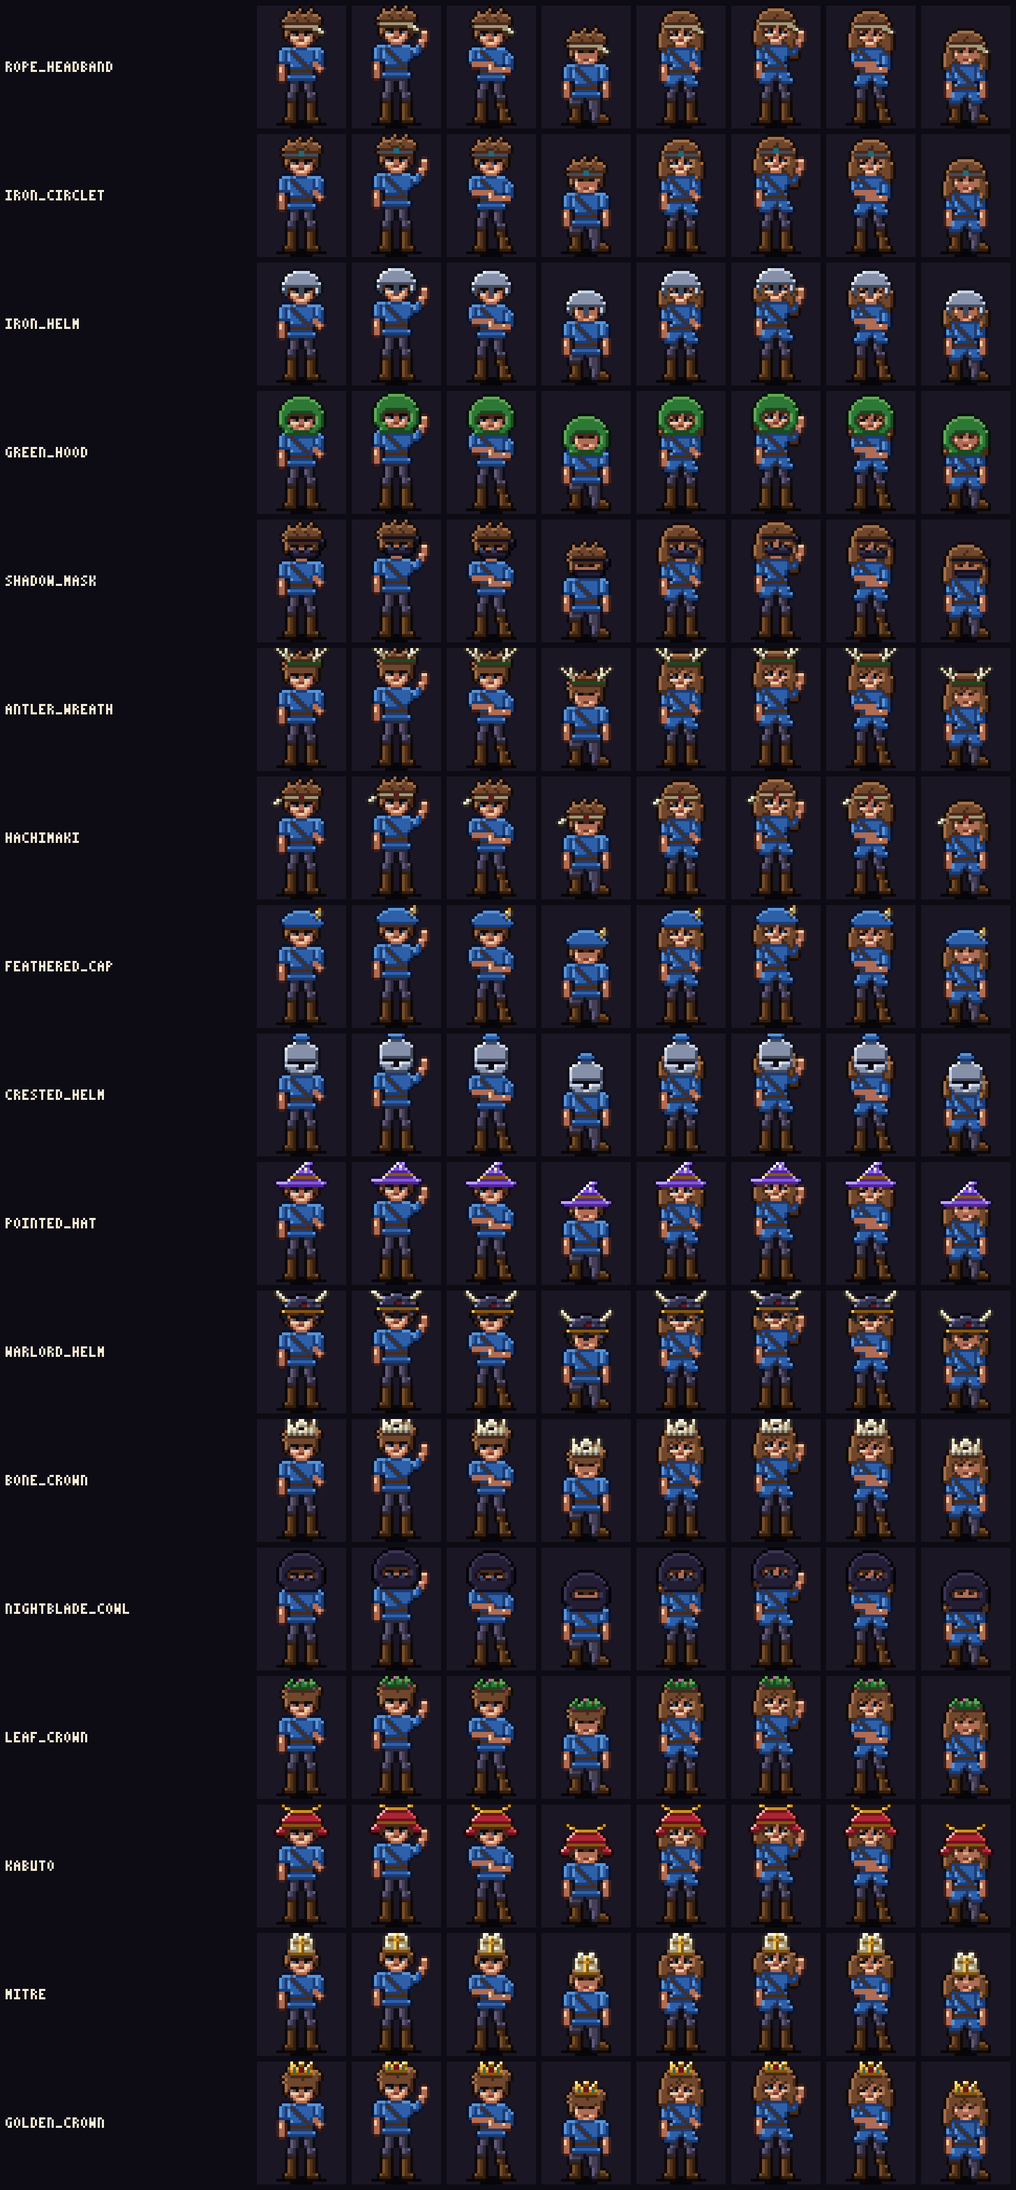
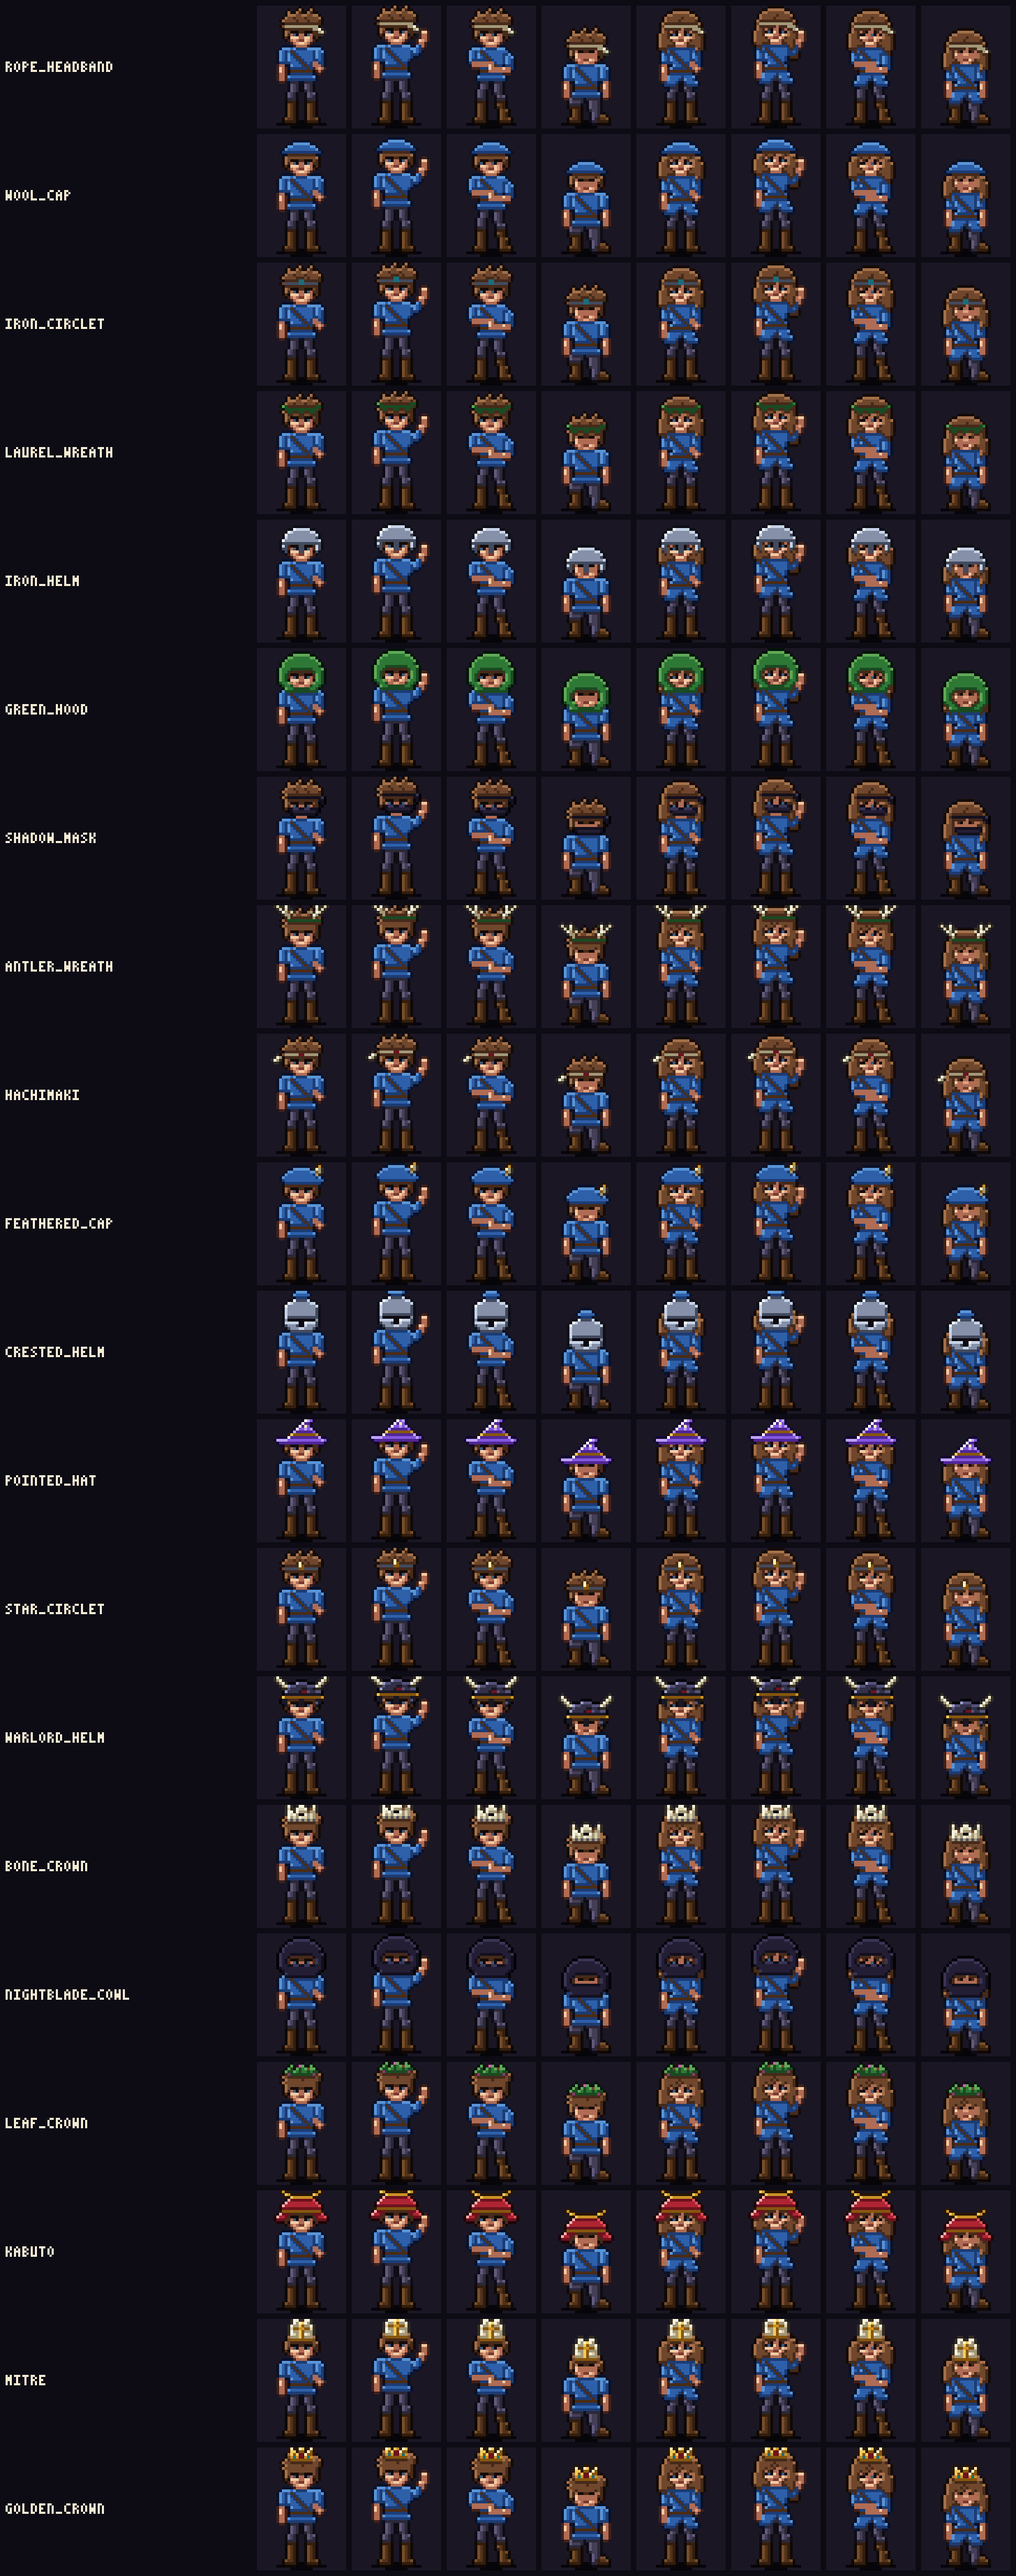
feat: fourteen more companion items between the first weeks and 50 sessions (FB-14)
Milestone items on the existing rule kinds, no rank items: sessions 5 / 10 / 15 / 25 / 30 / 200,
best streak 3 / 14 / 60, Trials 3 / 5 / 10, level 15 / 30. The thin hands slot grows from 4 to 7.
Drawn as letter grids for both bodies and every pose, checked on the contact sheet. ADR-079.

diff --git a/src/data/companion/accessories.ts b/src/data/companion/accessories.ts
@@ -5,7 +5,8 @@
  * earned; the store keeps the unlocks forever anyway. Cosmetic only.
  *
  * The list is the one shown to the user (2026-10-03): rank gear, level gear, milestones, and one
- * item for tier I and one for tier III of every class. Within a slot the order runs from humble
+ * item for tier I and one for tier III of every class; 14 milestone items were added on the
+ * user's OK (2026-10-30, FB-14, ADR-079) to fill the gaps between the early items and 50 sessions. Within a slot the order runs from humble
  * to grand: a slot the hero never picked for shows the last earned item in this order.
  *
  * Ids are snake_case and stable forever. The pixel art for each id is in `art.ts`.
@@ -29,11 +30,25 @@ export const ACCESSORIES: readonly Accessory[] = [
     flavor: 'Keeps the sweat out of a novice’s eyes.',
   },
   {
+    id: 'wool_cap',
+    name: 'Wool cap',
+    slot: 'head',
+    rule: { kind: 'sessions', count: 5 },
+    flavor: 'Five sessions in: a cap for the walk to the bar.',
+  },
+  {
     id: 'iron_circlet',
     name: 'Iron circlet',
     slot: 'head',
     rule: { kind: 'rank', rank: 'Adept' },
     flavor: 'A plain band with one rune-stone: the mark of an adept.',
+  },
+  {
+    id: 'laurel_wreath',
+    name: 'Laurel wreath',
+    slot: 'head',
+    rule: { kind: 'trials', count: 5 },
+    flavor: 'Five Trials passed: the old sign of a champion.',
   },
   {
     id: 'iron_helm',
@@ -92,6 +107,13 @@ export const ACCESSORIES: readonly Accessory[] = [
     flavor: 'Every Sorcerer needs one. The stars are optional.',
   },
   {
+    id: 'star_circlet',
+    name: 'Star circlet',
+    slot: 'head',
+    rule: { kind: 'level', level: 30 },
+    flavor: 'An iron band with one golden star for level 30.',
+  },
+  {
     id: 'warlord_helm',
     name: 'Horned warlord helm',
     slot: 'head',
@@ -143,6 +165,13 @@ export const ACCESSORIES: readonly Accessory[] = [
 
   // Cloak and back
   {
+    id: 'travel_scarf',
+    name: 'Travel scarf',
+    slot: 'cloak',
+    rule: { kind: 'sessions', count: 10 },
+    flavor: 'Ten sessions: a red scarf against the morning wind.',
+  },
+  {
     id: 'hooded_cloak',
     name: 'Hooded cloak',
     slot: 'cloak',
@@ -155,6 +184,13 @@ export const ACCESSORIES: readonly Accessory[] = [
     slot: 'cloak',
     rule: classItem('barbarian', 1),
     flavor: 'A Barbarian’s pelt, warm and a little smelly.',
+  },
+  {
+    id: 'storm_cloak',
+    name: 'Storm cloak',
+    slot: 'cloak',
+    rule: { kind: 'streak', count: 14 },
+    flavor: 'Two weeks without a miss: the night-blue cloak of a storm chaser.',
   },
   {
     id: 'veterans_scarf',
@@ -192,6 +228,13 @@ export const ACCESSORIES: readonly Accessory[] = [
     flavor: 'Long, heavy and trimmed with ermine: a High Lord’s cape.',
   },
   {
+    id: 'champions_cape',
+    name: 'Champion’s cape',
+    slot: 'cloak',
+    rule: { kind: 'sessions', count: 200 },
+    flavor: 'Two hundred sessions: orchid silk with a golden hem.',
+  },
+  {
     id: 'phoenix_cloak',
     name: 'Phoenix cloak',
     slot: 'cloak',
@@ -206,6 +249,13 @@ export const ACCESSORIES: readonly Accessory[] = [
     slot: 'body',
     rule: { kind: 'level', level: 5 },
     flavor: 'Sturdy cloth and a belt with a brass buckle.',
+  },
+  {
+    id: 'iron_pendant',
+    name: 'Iron pendant',
+    slot: 'body',
+    rule: { kind: 'trials', count: 3 },
+    flavor: 'A plain iron disc on a cord, one notch per Trial.',
   },
   {
     id: 'prayer_beads',
@@ -229,11 +279,25 @@ export const ACCESSORIES: readonly Accessory[] = [
     flavor: 'The red cross of the Templars over a white tabard.',
   },
   {
+    id: 'studded_belt',
+    name: 'Studded belt',
+    slot: 'body',
+    rule: { kind: 'level', level: 15 },
+    flavor: 'Iron studs on a wide belt for level 15.',
+  },
+  {
     id: 'chainmail_vest',
     name: 'Chainmail vest',
     slot: 'body',
     rule: { kind: 'level', level: 20 },
     flavor: 'Ten thousand rings, each one a rep.',
+  },
+  {
+    id: 'fur_vest',
+    name: 'Fur-lined vest',
+    slot: 'body',
+    rule: { kind: 'sessions', count: 30 },
+    flavor: 'Thirty sessions: warm enough for a winter park.',
   },
   {
     id: 'grandmaster_robe',
@@ -252,6 +316,13 @@ export const ACCESSORIES: readonly Accessory[] = [
 
   // Hands and arms
   {
+    id: 'chalk_hands',
+    name: 'Chalked hands',
+    slot: 'hands',
+    rule: { kind: 'streak', count: 3 },
+    flavor: 'Three sessions in a row: time to chalk up.',
+  },
+  {
     id: 'leather_bracers',
     name: 'Leather bracers',
     slot: 'hands',
@@ -266,11 +337,25 @@ export const ACCESSORIES: readonly Accessory[] = [
     flavor: 'A heater shield with the Paladin’s golden sun.',
   },
   {
+    id: 'iron_bracers',
+    name: 'Iron bracers',
+    slot: 'hands',
+    rule: { kind: 'sessions', count: 25 },
+    flavor: 'Twenty-five sessions: forearm guards of plain iron.',
+  },
+  {
     id: 'runed_gauntlets',
     name: 'Runed gauntlets',
     slot: 'hands',
     rule: { kind: 'level', level: 35 },
     flavor: 'Iron gauntlets with runes that glow under load.',
+  },
+  {
+    id: 'golden_gauntlets',
+    name: 'Golden gauntlets',
+    slot: 'hands',
+    rule: { kind: 'trials', count: 10 },
+    flavor: 'Ten Trials passed: gauntlets that catch the light.',
   },
   {
     id: 'skull_pauldrons',
@@ -287,6 +372,13 @@ export const ACCESSORIES: readonly Accessory[] = [
     slot: 'aura',
     rule: { kind: 'trials', count: 1 },
     flavor: 'Struck for your first passed Trial.',
+  },
+  {
+    id: 'spark_aura',
+    name: 'Spark aura',
+    slot: 'aura',
+    rule: { kind: 'sessions', count: 15 },
+    flavor: 'Fifteen sessions: the first sparks fly.',
   },
   {
     id: 'war_paint',
@@ -336,6 +428,13 @@ export const ACCESSORIES: readonly Accessory[] = [
     slot: 'aura',
     rule: { kind: 'streak', count: 30 },
     flavor: 'Thirty sessions in a row: you are on fire.',
+  },
+  {
+    id: 'blaze_aura',
+    name: 'Blaze aura',
+    slot: 'aura',
+    rule: { kind: 'streak', count: 60 },
+    flavor: 'Sixty sessions in a row. You are the fire now.',
   },
   {
     id: 'starforged_halo',

diff --git a/src/data/companion/art.ts b/src/data/companion/art.ts
@@ -170,6 +170,16 @@ export const ACCESSORY_ART: Readonly<Record<string, AccessoryArt>> = {
   iron_circlet: {
     head: part(0, 2, ['.....EE.....', 'IIIIIEEIIIII']),
   },
+  wool_cap: {
+    hidesHair: true,
+    head: part(-1, -1, ['....XXXXXX....', '..XXXXXXXXXX..', '.XXXXXXXXXXXX.', 'xxxxxxxxxxxxxx']),
+  },
+  laurel_wreath: {
+    head: part(-1, 1, ['VV..........VV', '.VVVVVVVVVVVV.', '..vv..vv..vv..']),
+  },
+  star_circlet: {
+    head: part(0, 1, ['.....!......', '.....GG.....', 'IIIIIGGIIIII']),
+  },
   golden_crown: {
     head: part(2, -4, ['G..GG..G', 'GG.GG.GG', 'GGGRRGGG', 'GEGRRGEG', 'gggggggg']),
   },
@@ -326,6 +336,18 @@ export const ACCESSORY_ART: Readonly<Record<string, AccessoryArt>> = {
   },
 
   // --- Cloak and back ----------------------------------------------------------------------------
+  travel_scarf: {
+    back: part(-6, 0, ['rR......', 'RRr.....', '.RRr....', '..rR....']),
+    front: part(1, 0, ['RRRRRRRRRR', '.rrrrrrrr.', '.......RR.', '.......Rr.', '.......rR.']),
+  },
+  storm_cloak: {
+    back: cloak('N', 'n', 24, (x) => (x % 4 === 1 ? 'W' : 'n')),
+    front: collar(['NNN..........NNN', 'NNNN...WW...NNNN']),
+  },
+  champions_cape: {
+    back: cloak('O', 'o', 26, () => 'G'),
+    front: collar(['OOO..........OOO', 'OGOO...GG...OOGO']),
+  },
   hooded_cloak: {
     back: cloak('X', 'x', 24),
     behindHead: part(-2, 8, [
@@ -428,6 +450,17 @@ export const ACCESSORY_ART: Readonly<Record<string, AccessoryArt>> = {
   chainmail_vest: {
     recolor: { regions: { torso: 'iron', belt: 'leather' }, pattern: rings },
   },
+  iron_pendant: {
+    front: part(3, 1, ['L....L', '.L..L.', '..II..', '.iIIi.', '..ii..']),
+  },
+  studded_belt: {
+    recolor: { regions: { belt: 'iron' } },
+    front: part(1, 9, ['G.G.G.G.G.']),
+  },
+  fur_vest: {
+    recolor: { regions: { torso: 'fur', belt: 'leather' } },
+    front: part(2, 0, ['MMMMMMMM', '.mMmMmM.']),
+  },
   grandmaster_robe: {
     recolor: { regions: { torso: 'robe', sleeve: 'robe', belt: 'leather', legs: 'robe' } },
     front: part(1, 1, [
@@ -447,8 +480,17 @@ export const ACCESSORY_ART: Readonly<Record<string, AccessoryArt>> = {
   },
 
   // --- Hands and arms ----------------------------------------------------------------------------
+  chalk_hands: {
+    recolor: { regions: { hand: 'bone' } },
+  },
   leather_bracers: {
     recolor: { regions: { forearm: 'leather' } },
+  },
+  iron_bracers: {
+    recolor: { regions: { forearm: 'iron' } },
+  },
+  golden_gauntlets: {
+    recolor: { regions: { forearm: 'gold', hand: 'gold' } },
   },
   runed_gauntlets: {
     recolor: { regions: { forearm: 'iron', hand: 'iron' } },
@@ -476,6 +518,43 @@ export const ACCESSORY_ART: Readonly<Record<string, AccessoryArt>> = {
   },
   war_paint: {
     head: part(2, 7, ['R......R', '.R....R.']),
+  },
+  spark_aura: {
+    sparkles: sparkle(
+      [
+        [-4, 2],
+        [16, 5],
+        [-3, 20],
+        [17, 24],
+      ],
+      'sparkWhite',
+    ),
+  },
+  blaze_aura: {
+    glow: 'glowFlame',
+    sparkles: [
+      ...stars(
+        [
+          [-5, 0],
+          [17, -2],
+          [-6, 18],
+          [18, 22],
+        ],
+        'sparkFire',
+        'sparkGold',
+      ),
+      ...sparkle(
+        [
+          [-4, 8],
+          [16, 10],
+          [-5, 28],
+          [17, 31],
+          [12, -4],
+          [-1, -3],
+        ],
+        'sparkFire',
+      ),
+    ],
   },
   ember_aura: {
     glow: 'glowFire',

diff --git a/src/data/companion/companion.test.ts b/src/data/companion/companion.test.ts
@@ -81,6 +81,21 @@ const SPEC: Readonly<Record<string, string>> = {
   skull_pauldrons: 'berserker 3',
   pointed_hat: 'sorcerer 1',
   arcane_aura: 'sorcerer 3',
+  // FB-14 (ADR-079): milestones between the early items and 50 sessions.
+  wool_cap: 'sessions 5',
+  travel_scarf: 'sessions 10',
+  spark_aura: 'sessions 15',
+  iron_bracers: 'sessions 25',
+  fur_vest: 'sessions 30',
+  champions_cape: 'sessions 200',
+  chalk_hands: 'streak 3',
+  storm_cloak: 'streak 14',
+  blaze_aura: 'streak 60',
+  iron_pendant: 'trials 3',
+  laurel_wreath: 'trials 5',
+  golden_gauntlets: 'trials 10',
+  studded_belt: 'level 15',
+  star_circlet: 'level 30',
 };
 
 function ruleKey(rule: (typeof ACCESSORIES)[number]['rule']): string {

diff --git a/docs/CONTEXT.md b/docs/CONTEXT.md
@@ -252,8 +252,8 @@ src/
     classes.ts          HERO_CLASSES: the 15 hero classes as typed data (ids, tiers with rules,
                         flavor, color, 12×12 emblem), the one place for class thresholds (ADR-057)
     companion/          the companion sprite as typed data (PLAN 6.10, ADR-059)
-      accessories.ts    ACCESSORIES: 46 accessories (slot, flavour, flat unlock rule), the one place
-                        for their rules
+      accessories.ts    ACCESSORIES: 60 accessories (slot, flavour, flat unlock rule; 14 milestone
+                        items added for FB-14, ADR-079), the one place for their rules
       body.ts           SPRITE_SIZE (32 × 44, the one size constant), BODY_SHAPES (man / woman:
                         head, torso, arm inset), HAIR_STYLES (spiky / long / ponytail), arm and leg
                         poses, frame anchors (BodyFrame, STAND, armPlacement), faces, regions
